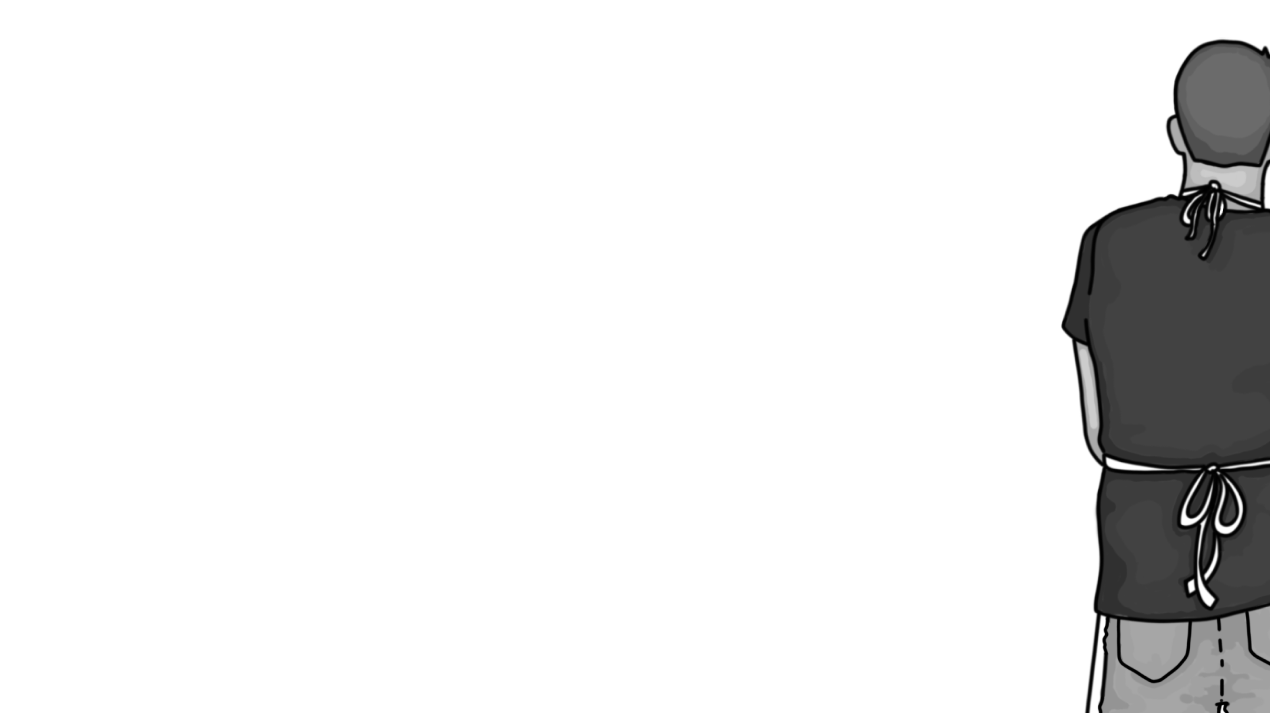
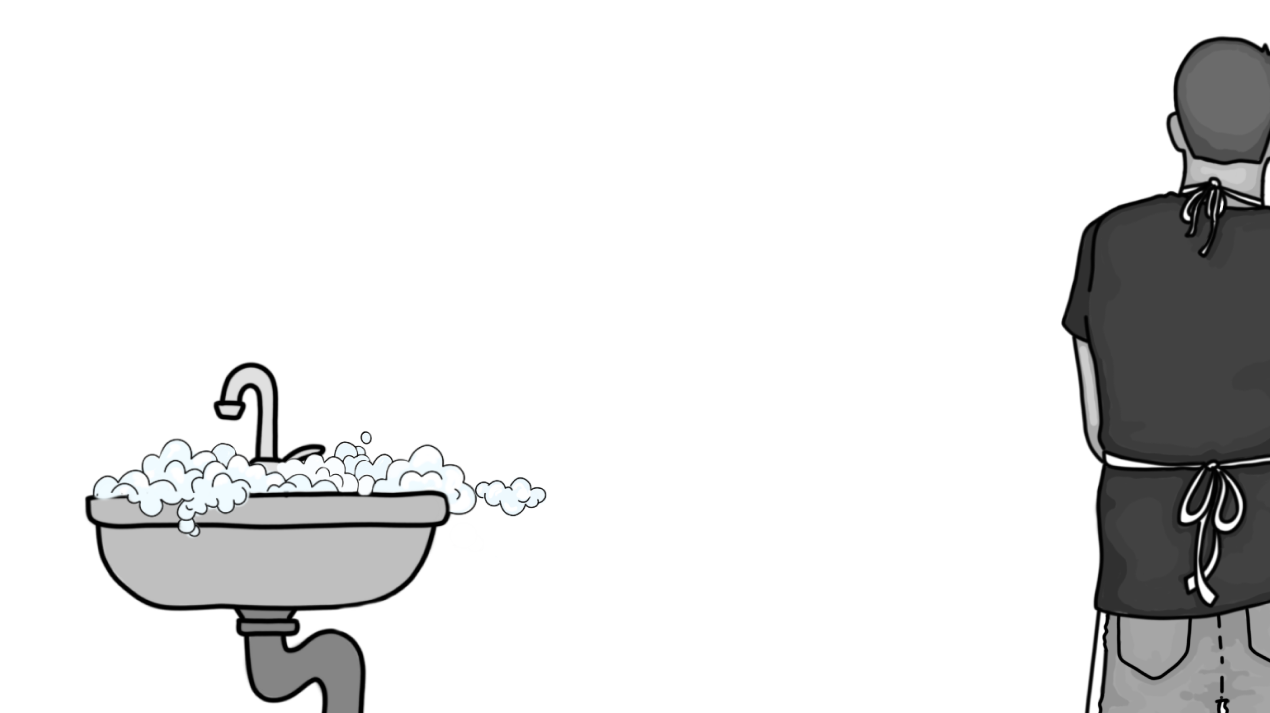
Küche anordnung

diff --git a/Murmelbahn/code/frame8.js b/Murmelbahn/code/frame8.js
@@ -12,7 +12,7 @@ function scene8() {
 		world,
 		{
 			x: 250,
-			y: 400,
+			y: 600,
 			image: blase,
 			fromFile: "./eggState/pathblase.svg",
 			scale: 1,
@@ -20,24 +20,6 @@ function scene8() {
 		{ label: "Murmel", isStatic: false, friction: 0.1, density: 0.001 }
 	);
 	//Boden
-	blocks.push(
-		new BlockCore(
-			world,
-			{
-				x: 250,
-				y: 600,
-				w: 200,
-				h: 20,
-				color: "red",
-				trigger: () => {
-					console.log("magnet an");
-					//Magnet wird ausgeschgalten
-					//magnet.addAttracted(ei);
-				},
-			},
-			{ isStatic: true }
-		)
-	);
 	blocks.push(
 		new BlockCore(
 			world,
